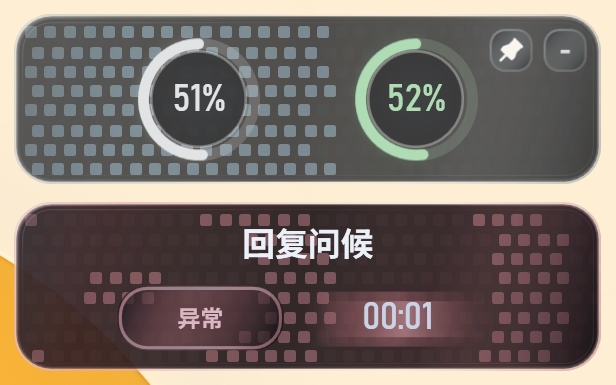
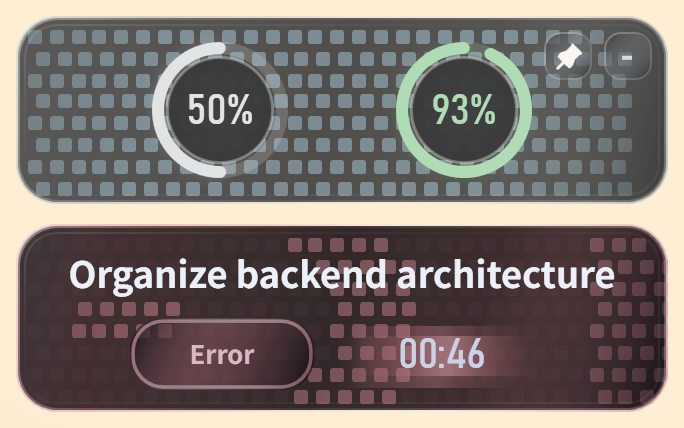
Add images to English README features

diff --git a/README.md b/README.md
@@ -90,13 +90,31 @@ Codexstar is a Windows floating status light for Codex. It keeps one thing visib
 
 Three card colors show working, review-pending, and needs-check states. The flowing pixel background makes the state readable at a glance, even when Codex is not the active window.
 
+<img src="docs/images/codexstar-desktop-expanded.png" alt="Codexstar desktop expanded mode" width="720">
+
+Each task gets its own card, with title, status, and duration kept in one quick glance.
+
+<img src="docs/images/codexstar-card-mode.png" alt="Codexstar card mode" width="420">
+
+Interrupted or failed tasks turn into a red card, so the one thing that needs attention does not blend into the rest.
+
+![Codexstar error card](docs/images/codexstar-error-card.png)
+
 ### 2. Collapsed Mode
 
 Cards can collapse into small bulbs, one bulb per task. It stays visible without fighting your focus, and this mode uses fewer resources.
 
+<img src="docs/images/codexstar-desktop-collapsed.png" alt="Codexstar desktop collapsed mode" width="720">
+
+In bulb mode, the card stack becomes a compact strip of color signals.
+
+![Codexstar bulb mode](docs/images/codexstar-bulb-mode.png)
+
 ### 3. Custom Completion Sounds
 
 Choose from 8 bundled completion sounds, preview them in the menu, and set a time threshold so short chats do not keep ringing.
+
+<img src="docs/images/codexstar-sound-settings.png" alt="Codexstar sound settings" width="300">
 
 ### 4. Quota Panel
 
